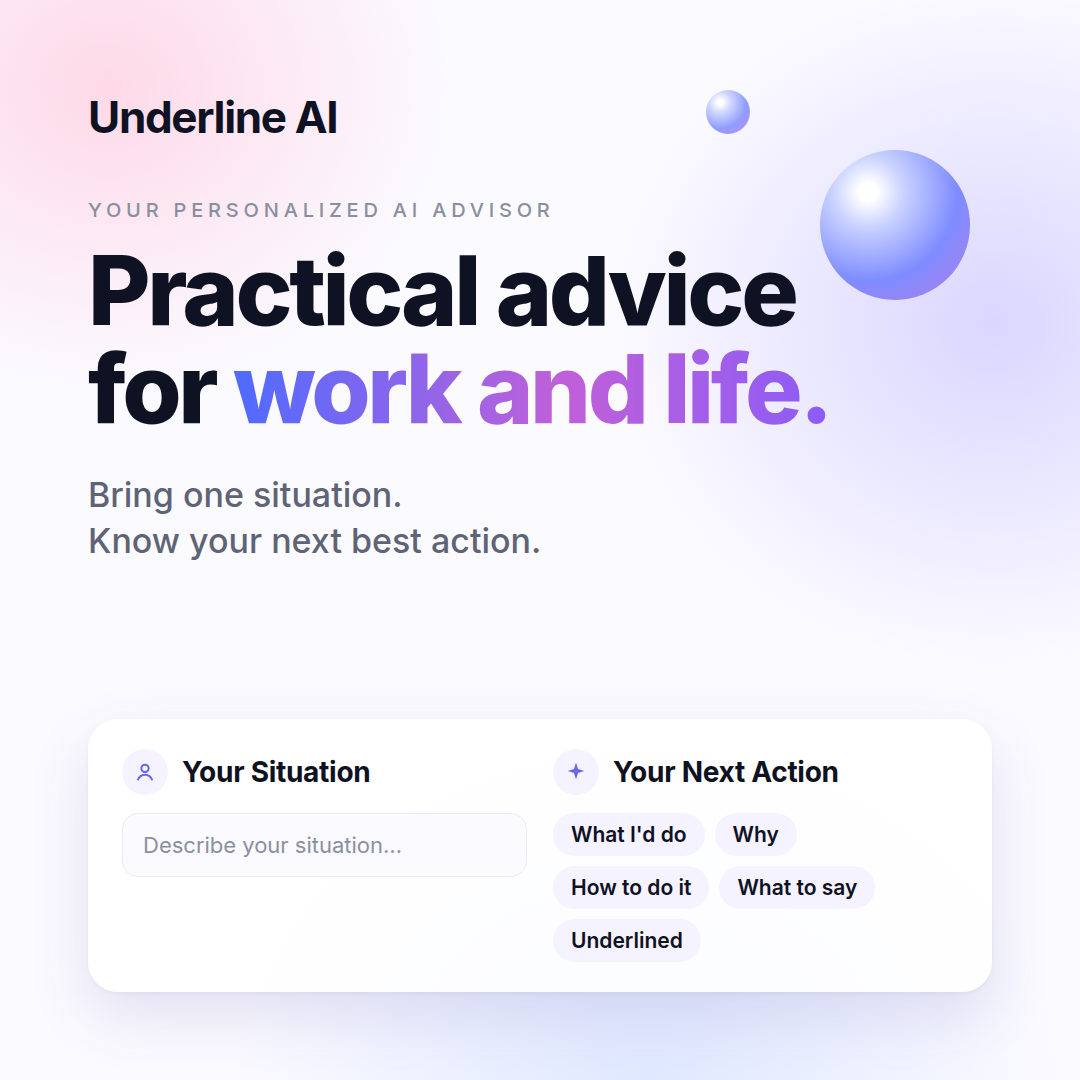
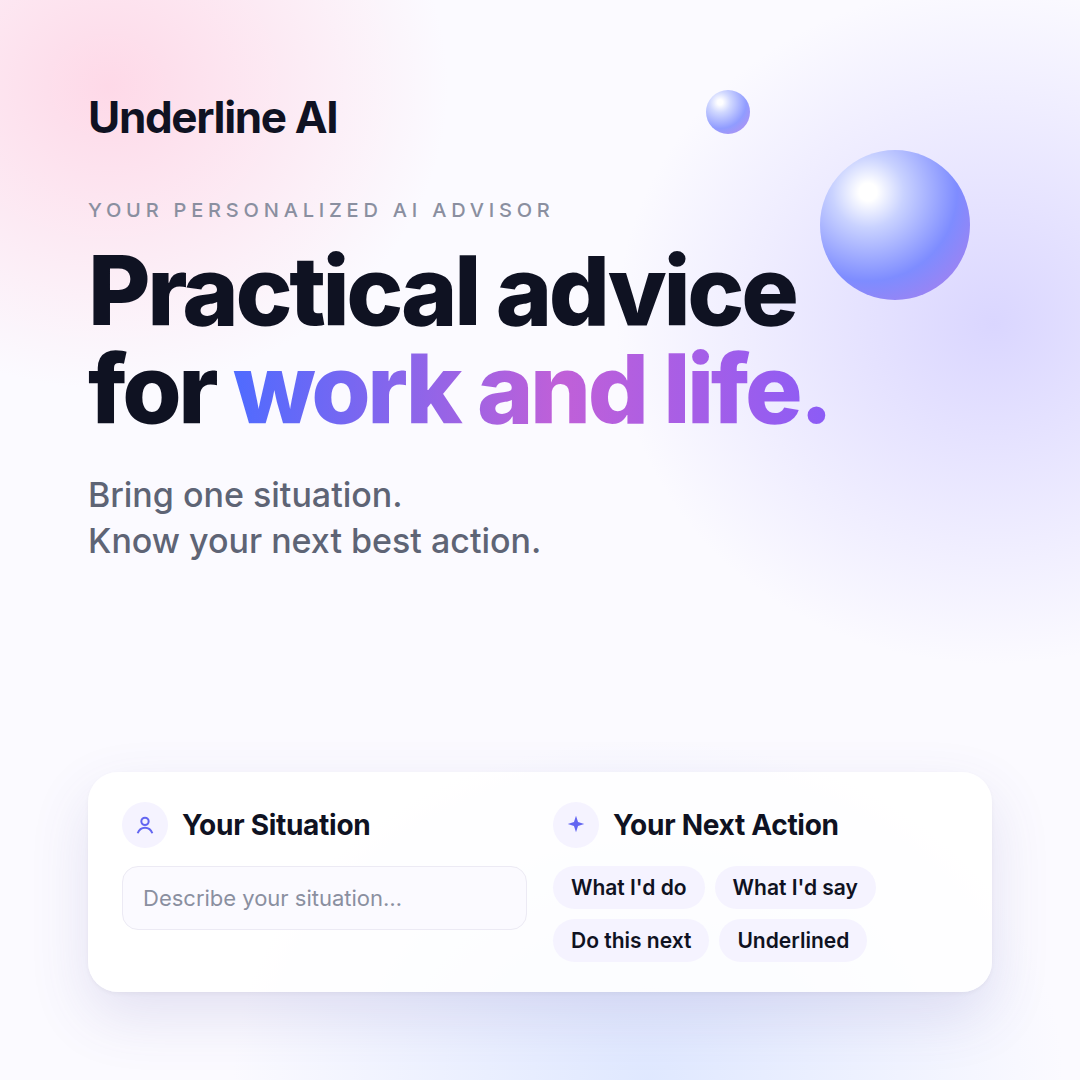
Your Next Action in four parts: What I'd do, What I'd say, Do this next, Underlined
Claude-Session: https://claude.ai/code/session_01N7N6w9NyR9iyFeuC71Pzud

Changed region(s): [[0.5194, 0.7028, 0.7944, 0.8861], [0.1222, 0.7028, 0.3667, 0.7944], [0.1222, 0.825, 0.3667, 0.8556]]

diff --git a/index.html b/index.html
@@ -305,7 +305,7 @@ html{overflow-x:hidden}
         <div class="ans sit"><div class="anshead"><span class="spark"><svg viewBox="0 0 24 24" fill="none" stroke="currentColor" stroke-width="2.2"><circle cx="12" cy="8" r="4"/><path d="M4 21c1.5-4 4.5-6 8-6s6.5 2 8 6"/></svg></span><b>Your Situation</b></div><div class="ins"><span>Describe your situation…</span></div></div>
         <div class="ans">
           <div class="anshead"><span class="spark"><svg viewBox="0 0 24 24" width="16" height="16" fill="currentColor"><path d="M12 2l2.2 6.8L21 11l-6.8 2.2L12 20l-2.2-6.8L3 11l6.8-2.2L12 2Z"/></svg></span><b>Your Next Action</b></div>
-          <ul class="outs"><li>What I'd do</li><li>Why</li><li>How to do it</li><li>What to say</li><li>Underlined</li></ul>
+          <ul class="outs"><li>What I'd do</li><li>What I'd say</li><li>Do this next</li><li>Underlined</li></ul>
         </div>
       </div>
     </div>
@@ -323,7 +323,7 @@ html{overflow-x:hidden}
     <ol class="steps">
       <li><span class="ic c1"><svg viewBox="0 0 24 24" fill="currentColor"><path d="M12 3c5 0 9 3.6 9 8s-4 8-9 8c-1 0-2-.1-2.9-.4L4 20l1.3-3.6C3.9 15 3 13.1 3 11c0-4.4 4-8 9-8Z"/></svg></span><b>Bring one situation</b><span>What's happening, what you want to happen, and anything else that matters.</span></li>
       <li><span class="ic c2"><svg viewBox="0 0 24 24" fill="none" stroke="currentColor" stroke-width="2.4"><circle cx="11" cy="11" r="6"/><path d="m20 20-4.5-4.5"/></svg></span><b>Underline finds the ideas that fit</b><span>It picks the two or three ideas from its library that fit your situation.</span></li>
-      <li><span class="ic c4"><svg viewBox="0 0 24 24" fill="none" stroke="currentColor" stroke-width="2.4"><rect x="4" y="4" width="16" height="16" rx="4"/><path d="m8.5 12.5 2.5 2.5 4.5-5"/></svg></span><b>Leave with a one-page plan</b><span>What to do, why, three steps, the exact words to use, and the ideas behind it.</span></li>
+      <li><span class="ic c4"><svg viewBox="0 0 24 24" fill="none" stroke="currentColor" stroke-width="2.4"><rect x="4" y="4" width="16" height="16" rx="4"/><path d="m8.5 12.5 2.5 2.5 4.5-5"/></svg></span><b>Leave with a one-page plan</b><span>One clear recommendation, the words to use, up to three next steps, and the ideas behind it.</span></li>
     </ol>
   </section>
 
@@ -366,12 +366,12 @@ html{overflow-x:hidden}
     <button class="gclose" type="button" aria-label="Close">&times;</button>
     <div class="glock" aria-hidden="true"><svg viewBox="0 0 24 24" width="26" height="26" fill="none" stroke="currentColor" stroke-width="2.2" stroke-linecap="round" stroke-linejoin="round"><rect x="5" y="11" width="14" height="10" rx="2"/><path d="M8 11V7a4 4 0 0 1 8 0v4"/></svg></div>
     <h3 id="gateT">Get full access to see your answer</h3>
-    <p>Your Next Action for your own situation is in the full version: what to do, why, how to do it, what to say and the ideas behind it.</p>
+    <p>Your Next Action for your own situation is in the full version: one clear recommendation, the words to use, up to three next steps and the ideas behind it.</p>
     <a class="btn big dark" href="https://buy.stripe.com/cNi14nfzP6RKfkX9F2eQM00" target="_blank" rel="noopener">Get full access</a>
     <button class="glater" type="button">Maybe later</button>
   </div>
 </dialog>
-<script type="application/json" id="tryData">{"samples": [{"label": "Pitching an idea", "sit": "I want to pitch moving our weekly status meeting to a written update. My director likes the meeting because she hears from everyone. I get 10 minutes in our team leads sync on Tuesday.", "goal": "She agrees to try it for a month", "ctx": "We have 9 people in the meeting. It runs 60 minutes and most of it is people reading updates out loud.", "title": "Pitch a written update instead of the meeting", "do": "Pitch a one-month trial: written updates by Monday noon, and the meeting cut to 20 minutes for questions and decisions. Frame it around what your director gets out of it, which is hearing from everyone in more detail.", "why": ["Your director likes the meeting because she hears from everyone. If you open with how she'll still hear from all 9 people, in more detail, she has her own reason to say yes.", "The meeting's job is to keep her informed. Showing that written updates do that job better makes the change about the goal she already has.", "A one-month trial with a check at the end is easier to approve than a permanent change, and the numbers make the final call simple."], "how": ["Today, write a one-paragraph sample update from your own team so she can see what she'd get.", "On Tuesday, open with the cost (9 people for an hour is 9 hours a week), show the sample, and ask for a one-month trial.", "In week 4, bring her two numbers: hours saved and decisions made, and ask whether to keep it."], "say_label": "Open your 10 minutes with", "say": "Our status meeting takes 9 people for an hour each week. That's 9 hours, and most of it is us reading updates out loud. I'd like to try something for one month: everyone posts a short written update by Monday noon, and we keep 20 minutes for questions and decisions. You'd still hear from everyone, in more detail than now. After four weeks, we look at time saved and decisions made, and you decide if we keep it.", "und": [{"n": "Always answer \"What's in it for me?\"", "l": "Before you ask, think about what the other person wants and say how your request helps them.", "s": "Alison Fragale, Likeable Badass"}, {"n": "Give every standing meeting a job", "l": "For each recurring meeting, ask two things: why did we set this up, and is that job done yet? If no one can answer the first, or the answer to the second is yes, cancel it.", "s": "Kevin M. Hoffman, Meeting Design"}, {"n": "Plan, Do, Check, Act", "l": "Plan a small test with a measure.", "s": "W. Edwards Deming (PDCA cycle)"}]}, {"label": "Too much on my plate", "sit": "I have 14 open tasks, two launches this month, and my boss just asked me to also own the hiring plan. I'm working late every night and still falling behind.", "goal": "Get back to a normal workweek without dropping anything important", "ctx": "No one on my team can take the launches. The hiring plan is due in three weeks.", "title": "Get back control of a full plate", "do": "Before you accept the hiring plan, take your boss a one-page list of everything you're on, sorted by urgent and important, and ask which item should move or who can take it.", "why": ["Your boss may not see that the hiring plan lands on top of two launches. Showing what slips makes the trade-off their call, so it doesn't turn into more late nights for you.", "With 14 tasks, sorting them shows which ones can be booked later, handed off or dropped, so the launches get your best hours.", "Two launches this month means each day needs one clear priority. Doing that one task before email keeps the launches moving while you sort out the rest."], "how": ["Today, list all 14 tasks plus the hiring plan and sort them into do now, book time, hand off and drop.", "Tomorrow, show the list to your boss and ask which item moves to make room for the hiring plan, or whether the plan can start after the launches.", "Each morning from now on, write the day's most important task on a note and finish it before you open email."], "say_label": "Say this to your boss", "say": "I want to do the hiring plan well, so I need your help on priorities. Right now I'm on two launches this month and 12 other tasks. Here's the list sorted by what's urgent and what matters most. If I take the hiring plan now, something on this list slips. Which one should move? Or can the hiring plan start after the launches?", "und": [{"n": "Say no by showing the trade-off", "l": "List what you're working on, show what slips if you take the new thing, and ask which one should move.", "s": "Weiwei Hu, Workplace SOPs (Saying no, Setting priorities)"}, {"n": "Sort by urgent and important", "l": "Put each task in one of four boxes.", "s": "Eisenhower matrix"}, {"n": "Finish your Most Important Task first", "l": "Each morning, write your one biggest priority on a sticky note and put it where you can see it.", "s": "Aytekin Tank, Automate Your Busywork"}]}, {"label": "Presenting to executives", "sit": "I have 10 minutes with our VP and the leadership team on Thursday to present Q3 results for my team. Revenue beat target by 8% but customer churn went up from 4% to 6%.", "goal": "They leave confident in my team and approve one more headcount", "ctx": "The VP is known for cutting people off after two minutes if they don't get to the point.", "title": "Present mixed Q3 results to the VP", "do": "Open with one sentence that covers both numbers and your ask, then use the rest of the 10 minutes to show the churn rise is understood and how the new headcount fixes it.", "why": ["Your VP cuts people off after two minutes. If the result and the ask come in the first 30 seconds, you've made your point even if you're interrupted.", "Beat target, churn up, what do we do, add one person: that order puts the bad news in context and leads straight to the ask.", "\"Churn went from 4% to 6%\" is easy to shrug off. Saying how many customers or how much revenue that 2% means makes the case for headcount land."], "how": ["Today, turn the churn rise into a number people feel, such as [X] customers or [$] a year, and write your first sentence with it.", "Before Thursday, cut the deck to three sections (revenue, churn, the plan) and put the churn cause and fix on one slide.", "In the first minute on Thursday, say the opening below, then ask if they want the churn detail or the plan first."], "say_label": "Open with", "say": "Q3 revenue beat target by 8%. Churn went up from 4% to 6%, which is about [X] customers, and we know why: [cause]. I'm asking for one more person in Q4 to fix it. That person would [task], which should bring churn back to [target] by [date]. I'll show the three numbers behind this, then the plan.", "und": [{"n": "Answer first", "l": "Open with your main point or recommendation in one sentence.", "s": "Barbara Minto, The Pyramid Principle"}, {"n": "Situation, Complication, Question, Answer", "l": "Write one line each: the situation, what changed or went wrong, the question that raises, and your answer.", "s": "Barbara Minto, The Pyramid Principle"}, {"n": "Never leave data dangling", "l": "Put each key number next to something people already know.", "s": "Carmine Gallo, Talk Like TED"}]}, {"label": "Difficult colleague", "sit": "A peer on the sales team keeps promising clients features my team hasn't agreed to build. Last week it happened again and my engineers had to rush a fix over the weekend.", "goal": "He checks with me before promising anything", "ctx": "We report to different directors. I've mentioned it once in passing and he laughed it off.", "title": "Stop a peer promising unbuilt features", "do": "Ask him for a 20-minute one-on-one this week and use the DESC script: the facts from last week, the cost to your team, and one specific request that he checks with you before promising anything not on the roadmap.", "why": ["You mentioned it once in passing and he laughed it off. A planned conversation with facts and one clear request is harder to brush aside.", "He wants happy clients and closed deals. Showing that rushed promises put his clients at risk gives him his own reason to change.", "You report to different directors, so a short written note of what you agree protects you both if it happens again."], "how": ["Today, write down the dates, the feature he promised and the weekend hours your engineers spent.", "This week, meet him one-on-one and use the words below. Stop after the request and let him answer.", "Within an hour of the meeting, send a short note of what you agreed and offer a 10-minute weekly check on upcoming deals."], "say_label": "Say this in your one-on-one", "say": "I want to talk about the [client] promise last week. My team hadn't agreed to build that feature, so two engineers worked the weekend to ship a fix. That leaves us rushing work we can't stand behind, and it puts your client at risk if it breaks. Can you check with me before promising anything that isn't on the roadmap? I'll answer within a day, and we'll both avoid surprises with your clients.", "und": [{"n": "Describe, Express, Suggest, Consequences", "l": "Describe the facts without blame.", "s": "Sharon and Gordon Bower, Asserting Yourself (DESC script)"}, {"n": "Always answer \"What's in it for me?\"", "l": "Before you ask, think about what the other person wants and say how your request helps them.", "s": "Alison Fragale, Likeable Badass"}, {"n": "Out loud, then in writing", "l": "Before you leave, say back who does what by when.", "s": "Weiwei Hu, Workplace SOPs (Closing the loop in writing)"}]}, {"label": "Asking for a raise", "sit": "I got an offer for a senior analyst role at another company: 15% more pay, fully remote. I like my current team and would stay if they matched part of it. I have a 1:1 with my manager Friday.", "goal": "Get a raise or a clear path to promotion without burning the relationship", "ctx": "Last review I was rated 'exceeds'. Promotions here happen in March.", "title": "Use an outside offer to ask for a raise", "do": "In Friday's 1:1, open with wanting to stay, share the offer briefly, and give your manager three ways to get there: a raise now, a written March promotion plan with a smaller raise, or a mix. Let them pick.", "why": ["Thanks and wanting to stay first, the ask in the middle tied to your 'exceeds' rating, and a warm close keeps the relationship safe while you ask for more.", "Naming the numbers yourself sets the starting point. Three options you'd accept make you look fair and give your manager a way to say yes.", "Leaving is hard to undo, and you like your team. That's a reason to try staying on better terms before you accept the offer."], "how": ["Before Friday, write your two or three biggest results this year and set three options you'd be happy with.", "On Friday, open with wanting to stay, give your results, then the offer and the three options. Stop talking and let your manager answer.", "After the 1:1, send a short note with the options and agree a date for an answer before your offer expires."], "say_label": "Say this on Friday", "say": "Thanks for making time. I like this team and I want to stay. I want to be upfront: I've had an offer for a senior analyst role at 15% more, fully remote. This year I [top result], and my last review was exceeds. Any of these would keep me here: a [X]% raise now, a written plan for promotion in March with a [Y]% raise now, or [option three]. Which works best for you, and when could we know?", "und": [{"n": "The negotiation sandwich", "l": "Open with thanks and excitement, then ask for a range a bit above the offer that fits what you already discussed.", "s": "Michela Allocca, Own Your Career"}, {"n": "Move first with three equal offers", "l": "Make the first offer so your number sets the starting point.", "s": "Alison Fragale, Likeable Badass"}, {"n": "Weigh options, including how easy they are to undo", "l": "Compare each option on upside, downside, cost, speed, risk and how easily you could undo it.", "s": "Weiwei Hu, AI Management Toolkit (option comparison template)"}]}]}</script>
+<script type="application/json" id="tryData">{"samples": [{"label": "Pitching an idea", "sit": "I want to pitch moving our weekly status meeting to a written update. My director likes the meeting because she hears from everyone. I get 10 minutes in our team leads sync on Tuesday.", "goal": "She agrees to try it for a month", "ctx": "We have 9 people in the meeting. It runs 60 minutes and most of it is people reading updates out loud.", "title": "Pitch a written update instead of the meeting", "do": "Pitch a one-month trial: written updates by Monday noon, and the meeting cut to 20 minutes for questions and decisions. Frame it around what your director gets out of it, which is hearing from everyone in more detail.", "say_label": "Open your 10 minutes with", "say": "Our status meeting takes 9 people for an hour each week. That's 9 hours, and most of it is us reading updates out loud. I'd like to try something for one month: everyone posts a short written update by Monday noon, and we keep 20 minutes for questions and decisions. You'd still hear from everyone, in more detail than now. After four weeks, we look at time saved and decisions made, and you decide if we keep it.", "und": [{"n": "Always answer \"What's in it for me?\"", "l": "Your director likes the meeting because she hears from everyone, so the pitch works when it starts with how she keeps that.", "s": "Alison Fragale, Likeable Badass"}, {"n": "Give every standing meeting a job", "l": "The meeting's job is to keep her informed. Showing that written updates do that job better makes the change about a goal she already has.", "s": "Kevin M. Hoffman, Meeting Design"}, {"n": "Plan, Do, Check, Act", "l": "A small trial with a measure is easier to approve than a permanent change, and the numbers make the final call simple.", "s": "W. Edwards Deming (PDCA cycle)"}], "next": ["Lead with what she gets: she still hears from all 9 people, in more detail than now.", "Name the meeting's job, then show its cost: 9 people for an hour is 9 hours a week, mostly spent reading updates aloud.", "Ask for a one-month trial with two measures, hours saved and decisions made, and a check-in at week 4."]}, {"label": "Too much on my plate", "sit": "I have 14 open tasks, two launches this month, and my boss just asked me to also own the hiring plan. I'm working late every night and still falling behind.", "goal": "Get back to a normal workweek without dropping anything important", "ctx": "No one on my team can take the launches. The hiring plan is due in three weeks.", "title": "Get back control of a full plate", "do": "Before you accept the hiring plan, take your boss a one-page list of everything you're on, sorted by urgent and important, and ask which item should move or who can take it.", "say_label": "Say this to your boss", "say": "I want to do the hiring plan well, so I need your help on priorities. Right now I'm on two launches this month and 12 other tasks. Here's the list sorted by what's urgent and what matters most. If I take the hiring plan now, something on this list slips. Which one should move? Or can the hiring plan start after the launches?", "und": [{"n": "Say no by showing the trade-off", "l": "Your boss may not see that the hiring plan lands on top of two launches. Showing what slips makes the trade-off their call.", "s": "Weiwei Hu, Workplace SOPs (Saying no, Setting priorities)"}, {"n": "Sort by urgent and important", "l": "With 14 tasks, sorting shows what can wait, move or go, so the launches get your best hours.", "s": "Eisenhower matrix"}, {"n": "Finish your Most Important Task first", "l": "With two launches this month, one clear priority a day keeps them moving while you sort out the rest.", "s": "Aytekin Tank, Automate Your Busywork"}], "next": ["Today, sort all 14 tasks plus the hiring plan into four boxes: do now, book time, hand off, drop.", "Tomorrow, take the sorted list to your boss and ask which item should move to make room for the hiring plan.", "Each morning, write the day's one most important task on a note and finish it before you open email."]}, {"label": "Presenting to executives", "sit": "I have 10 minutes with our VP and the leadership team on Thursday to present Q3 results for my team. Revenue beat target by 8% but customer churn went up from 4% to 6%.", "goal": "They leave confident in my team and approve one more headcount", "ctx": "The VP is known for cutting people off after two minutes if they don't get to the point.", "title": "Present mixed Q3 results to the VP", "do": "Open with one sentence that covers both numbers and your ask, then use the rest of the 10 minutes to show the churn rise is understood and how the new headcount fixes it.", "say_label": "Open with", "say": "Q3 revenue beat target by 8%. Churn went up from 4% to 6%, which is about [X] customers, and we know why: [cause]. I'm asking for one more person in Q4 to fix it. That person would [task], which should bring churn back to [target] by [date]. I'll show the three numbers behind this, then the plan.", "und": [{"n": "Answer first", "l": "Your VP cuts people off after two minutes. If the result and the ask come first, your point lands even if you're interrupted.", "s": "Barbara Minto, The Pyramid Principle"}, {"n": "Situation, Complication, Question, Answer", "l": "This order puts the bad news in context and leads straight to the ask.", "s": "Barbara Minto, The Pyramid Principle"}, {"n": "Never leave data dangling", "l": "A bare percentage is easy to shrug off. Tying it to customers or revenue makes the case for headcount.", "s": "Carmine Gallo, Talk Like TED"}], "next": ["Put the result and the ask in your first sentence, before any background.", "Build the 10 minutes in four beats: revenue beat target, churn rose, what that means, and how one more person fixes it.", "Turn the 2-point churn rise into something people feel, such as [X] customers or [$] a year."]}, {"label": "Difficult colleague", "sit": "A peer on the sales team keeps promising clients features my team hasn't agreed to build. Last week it happened again and my engineers had to rush a fix over the weekend.", "goal": "He checks with me before promising anything", "ctx": "We report to different directors. I've mentioned it once in passing and he laughed it off.", "title": "Stop a peer promising unbuilt features", "do": "Ask him for a 20-minute one-on-one this week and use the DESC script: the facts from last week, the cost to your team, and one specific request that he checks with you before promising anything not on the roadmap.", "say_label": "Say this in your one-on-one", "say": "I want to talk about the [client] promise last week. My team hadn't agreed to build that feature, so two engineers worked the weekend to ship a fix. That leaves us rushing work we can't stand behind, and it puts your client at risk if it breaks. Can you check with me before promising anything that isn't on the roadmap? I'll answer within a day, and we'll both avoid surprises with your clients.", "und": [{"n": "Describe, Express, Suggest, Consequences", "l": "You mentioned it once and he laughed it off. Facts and one clear request are much harder to brush aside.", "s": "Sharon and Gordon Bower, Asserting Yourself (DESC script)"}, {"n": "Always answer \"What's in it for me?\"", "l": "He wants happy clients and closed deals. Showing that rushed promises put his clients at risk gives him his own reason to change.", "s": "Alison Fragale, Likeable Badass"}, {"n": "Out loud, then in writing", "l": "You report to different directors, so a written note of what you agreed protects you both if it happens again.", "s": "Weiwei Hu, Workplace SOPs (Closing the loop in writing)"}], "next": ["Today, write down the facts without blame: the dates, the feature he promised and the weekend hours your engineers spent.", "This week, in a 20-minute one-on-one, tie your request to what he wants: happy clients and deals that don't break.", "Within an hour of the meeting, send a short note of what you agreed and offer a 10-minute weekly check on upcoming deals."]}, {"label": "Asking for a raise", "sit": "I got an offer for a senior analyst role at another company: 15% more pay, fully remote. I like my current team and would stay if they matched part of it. I have a 1:1 with my manager Friday.", "goal": "Get a raise or a clear path to promotion without burning the relationship", "ctx": "Last review I was rated 'exceeds'. Promotions here happen in March.", "title": "Use an outside offer to ask for a raise", "do": "In Friday's 1:1, open with wanting to stay, share the offer briefly, and give your manager three ways to get there: a raise now, a written March promotion plan with a smaller raise, or a mix. Let them pick.", "say_label": "Say this on Friday", "say": "Thanks for making time. I like this team and I want to stay. I want to be upfront: I've had an offer for a senior analyst role at 15% more, fully remote. This year I [top result], and my last review was exceeds. Any of these would keep me here: a [X]% raise now, a written plan for promotion in March with a [Y]% raise now, or [option three]. Which works best for you, and when could we know?", "und": [{"n": "The negotiation sandwich", "l": "Thanks first, the ask in the middle and a warm close keep the relationship safe while you ask for more.", "s": "Michela Allocca, Own Your Career"}, {"n": "Move first with three equal offers", "l": "Naming your numbers first sets the starting point, and three options you'd accept make it easy to say yes.", "s": "Alison Fragale, Likeable Badass"}, {"n": "Weigh options, including how easy they are to undo", "l": "Leaving is hard to undo, and you like your team. That's a reason to try staying on better terms first.", "s": "Weiwei Hu, AI Management Toolkit (option comparison template)"}], "next": ["Before Friday, set three options you'd accept: a raise now, a written March promotion plan with a smaller raise, or a mix.", "On Friday, open with thanks and wanting to stay, make the ask in the middle tied to your 'exceeds' rating, and close warmly.", "Before you answer the other company, compare staying and leaving on upside, risk and how easy each is to undo."]}]}</script>
 <script>
 (function(){
   var D=JSON.parse(document.getElementById('tryData').textContent);
@@ -384,8 +384,8 @@ html{overflow-x:hidden}
   var out=$('#tryOut');
   function showSample(x){
     out.replaceChildren(head(x.title,'Sample answer'));
-    out.append(sec("What I'd do",[el('p',null,x.do)]),sec('Why',[list('ul',x.why)]),sec('How to do it',[list('ol',x.how)]));
-    var say=el('div');say.append(el('p','saylab',x.say_label),el('p','say',x.say));out.append(sec('What to say',[say]),sec('Underlined',[und(x.und)]));
+    var say=el('div');say.append(el('p','saylab',x.say_label),el('p','say',x.say));
+    out.append(sec("What I'd do",[el('p',null,x.do)]),sec("What I'd say",[say]),sec('Do this next',[list('ol',x.next)]),sec('Underlined',[und(x.und)]));
   }
   var dlg=$('#gateDlg');
   function closeGate(){if(dlg.open)dlg.close();}

diff --git a/README.md b/README.md
@@ -20,11 +20,10 @@ Underline AI is your personal advisor. Bring a question, a challenge, or a decis
 
 **You get Your Next Action:**
 
-- **What I'd do:** one clear thing to do
-- **Why:** the key reasons it fits your situation
-- **How to do it:** concrete steps you can take
-- **What to say:** the words to use
-- **Underlined:** the ideas behind the advice
+- **What I'd do:** one decisive recommendation for your situation
+- **What I'd say:** the actual words to use
+- **Do this next:** up to three actions, adapted from practical techniques in the Underline AI library
+- **Underlined:** the two or three ideas that explain why the advice works, with the source of each
 
 **Topics:** Career, Communication, Leadership, Productivity, Decisions, Work-life balance.
 
